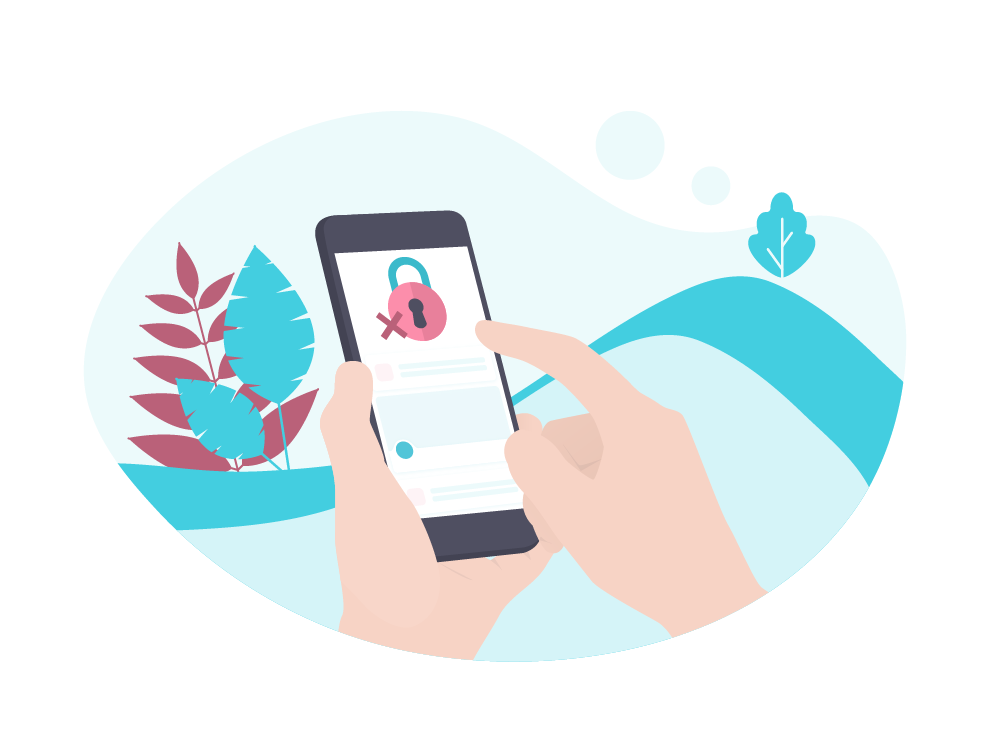
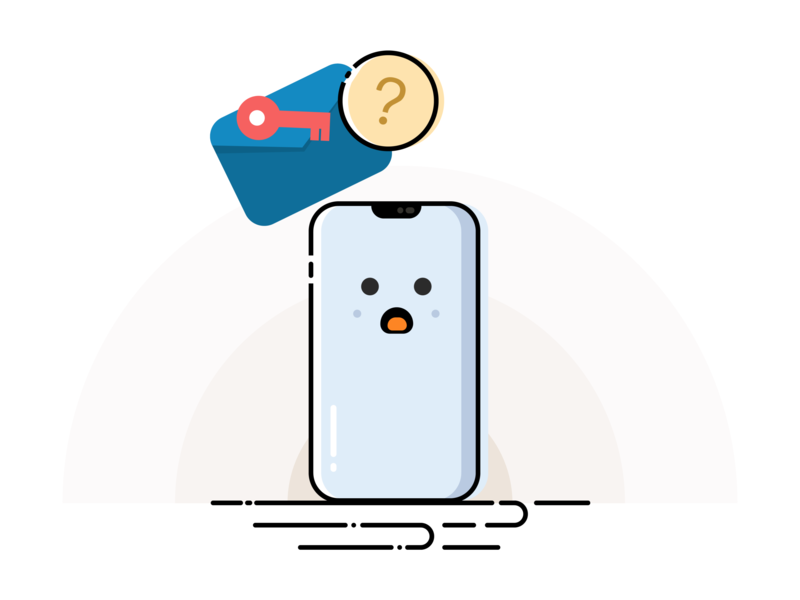
pin page2

diff --git a/lib/src/pages/pin_page.dart b/lib/src/pages/pin_page.dart
@@ -1,26 +1,25 @@
+import 'dart:async';
 import 'package:flutter/material.dart';
 import 'package:flutter/animation.dart';
-import 'package:flutter/services.dart';
-
-import 'package:font_awesome_flutter/font_awesome_flutter.dart';
 import 'package:sockets2/src/share_prefs/preferences.dart';
-import 'package:sockets2/src/validators/validators.dart' as loginValidator;
+
+import 'package:pinput/pin_put/pin_put.dart';
 
 
-class PasswordPage extends StatefulWidget {
-  _PasswordPageState createState() => _PasswordPageState();
+class PinPage extends StatefulWidget {
+  _PinPageState createState() => _PinPageState();
 }
 
-class _PasswordPageState extends State<PasswordPage> with TickerProviderStateMixin {
+class _PinPageState extends State<PinPage> with TickerProviderStateMixin {
 
   AnimationController controller;
   Animation<double> animation;
 
-  final TextEditingController _emailController    = TextEditingController();
-
   final formKey = GlobalKey<FormState>();
-
   final prefs = SharedPrefs();
+
+  int seconds = 300;
+  String time = '5:00';
 
   initState() {
     super.initState();
@@ -35,10 +34,32 @@ class _PasswordPageState extends State<PasswordPage> with TickerProviderStateMix
     );
     controller.forward();
 
+    Timer.periodic(Duration(seconds: 1), (timer) {
+      setState(() {
+        int minutos = (seconds/60).floor();
+        int segundos = seconds%60;
+        time = '$minutos:';
+        if ( segundos < 10 ) {
+          time += '0$segundos';
+        } else {
+          time += '$segundos';
+        }
+
+        if ( seconds == 0 ) {
+          timer.cancel();
+        }
+        seconds = seconds - 1;
+
+
+      });
+    });
+
   }
 
   @override
   Widget build(BuildContext context) {
+    
+    
 
     return Scaffold(
       backgroundColor: Colors.white,
@@ -66,7 +87,7 @@ class _PasswordPageState extends State<PasswordPage> with TickerProviderStateMix
             height: 250,
             child: FadeTransition(
               opacity: animation,
-              child: Image.asset('assets/forgpwd.png')
+              child: Image.asset('assets/pin.png')
             )
           ),
           Padding(
@@ -74,12 +95,12 @@ class _PasswordPageState extends State<PasswordPage> with TickerProviderStateMix
             child: Column(
               children: <Widget>[
                 Text(
-                  '¿Olvidaste tu contraseña?',
+                  'Introduce el pin',
                   style: TextStyle(fontSize: 25.0),
                 ),
                 SizedBox(height: 20.0),
                 Text(
-                    'Introduce tu correo asociado con tu cuenta y te enviaremos un código de 5 dígitos que deberás introducir después.',
+                    'Tiempo restante para que el pin expire: $time',
                     style: TextStyle(fontSize: 15.0, color: Colors.black54),
                     textAlign: TextAlign.center,
                 ),
@@ -98,17 +119,14 @@ class _PasswordPageState extends State<PasswordPage> with TickerProviderStateMix
         key: formKey,
         child: Column(
           children: <Widget>[
-            TextFormField(
-              controller: _emailController,
-              keyboardType: TextInputType.emailAddress,
-              decoration: InputDecoration(
-                labelText: 'Correo',
-                suffixIcon: Icon(FontAwesomeIcons.at)
-              ),
-              validator: loginValidator.validateEmail,
-              autovalidate: true,
+            PinPut(
+              fieldsCount: 4,
+              onSubmit: (pin) {
+                print(pin);
+              },
+              actionButtonsEnabled: false
             ),
-            SizedBox(height: 25.0)
+            SizedBox(height: 25.0),
           ],
         ),
       ),
@@ -130,7 +148,8 @@ class _PasswordPageState extends State<PasswordPage> with TickerProviderStateMix
                 textAlign: TextAlign.center,
               ),
             ),
-            onPressed: () => Navigator.pushNamed(context, 'pin')
+            onPressed: () {
+            }
           )
         ],
       ),

diff --git a/lib/src/routes/routes.dart b/lib/src/routes/routes.dart
@@ -1,16 +1,18 @@
 import 'package:flutter/material.dart';
 import 'package:sockets2/src/pages/home_page.dart';
 import 'package:sockets2/src/pages/password_page.dart';
+import 'package:sockets2/src/pages/pin_page.dart';
 import 'package:sockets2/src/pages/register_page.dart';
 import 'package:sockets2/src/pages/start_page.dart';
 import 'package:sockets2/src/pages/login_page.dart';
 
 Map<String, WidgetBuilder> getApplicationRoutes(){
   return <String, WidgetBuilder>{
-    '/'       : ( BuildContext context) => StartPage(),
-    'login'       : ( BuildContext context) => LoginPage(),
-    'register'       : ( BuildContext context) => SingUpPage(),
-    'home'       : ( BuildContext context) => HomePage(),
-    'pwd'       : ( BuildContext context) => PasswordPage()
+    '/'        : ( BuildContext context) => StartPage(),
+    'login'    : ( BuildContext context) => LoginPage(),
+    'register' : ( BuildContext context) => SingUpPage(),
+    'home'     : ( BuildContext context) => HomePage(),
+    'pwd'      : ( BuildContext context) => PasswordPage(),
+    'pin'      : ( BuildContext context) => PinPage()
   };
 }

diff --git a/lib/main.dart b/lib/main.dart
@@ -16,7 +16,12 @@ void main() async {
   print(prefs.startRoute);
   print(prefs.endToken);
 
-  runApp(MyApp());
+  runApp(MultiProvider(
+    providers: [
+      ChangeNotifierProvider( create: ( context ) => UsuarioProvider() )
+    ],
+    child: MyApp(),
+  ));
 }
  
 class MyApp extends StatelessWidget {
@@ -25,16 +30,11 @@ class MyApp extends StatelessWidget {
 
   @override
   Widget build(BuildContext context) {
-    return MultiProvider(
-      providers: [
-        ChangeNotifierProvider( create: ( context ) => UsuarioProvider() )
-      ],
-      child: MaterialApp(
-        title: 'SSPA',
-        debugShowCheckedModeBanner: false,
-        initialRoute: prefs.startRoute,
-        routes: getApplicationRoutes()
-      ),
+    return MaterialApp(
+      title: 'SSPA',
+      debugShowCheckedModeBanner: false,
+      initialRoute: prefs.startRoute,
+      routes: getApplicationRoutes()
     );
   }
 }

diff --git a/lib/src/providers/usuario_provider.dart b/lib/src/providers/usuario_provider.dart
@@ -7,7 +7,7 @@ import 'package:sockets2/src/share_prefs/preferences.dart';
 
 class UsuarioProvider with ChangeNotifier{
 
-  final String _url = 'https://api-puerta.herokuapp.com';
+  final String _url = 'http://192.168.0.110:3000';
   User _user;
 
   final prefs = SharedPrefs();
@@ -45,19 +45,19 @@ class UsuarioProvider with ChangeNotifier{
     final resp = await http.post('$_url/usuario', body: authData);
 
     return transformUser(resp);
-    
   }
 
   Map<String, dynamic> transformUser( http.Response resp ) {
     User user = new User();
+
+    print(resp.body);
 
     final Map<String, dynamic> decodedResp = json.decode(resp.body);
 
     if ( decodedResp['ok'] ) {
       user = User.fromJson(decodedResp['usuario']);
       this.user = user;
-
-      prefs.token = decodedResp['token'];
+        prefs.token = decodedResp['token'];
       prefs.user = userToJson(user);
 
     }

diff --git a/lib/src/pages/home_page.dart b/lib/src/pages/home_page.dart
@@ -21,13 +21,13 @@ class HomePage extends StatelessWidget {
     final userProvider = Provider.of<UsuarioProvider>(context);
     User user = User.fromJson(json.decode(prefs.user));
 
-    WidgetsBinding.instance.addPostFrameCallback((_) async {
+    final JwtClaim decClaimSet = verifyJwtHS256Signature(prefs.token, 'seed');
+    
+    userProvider.user = user;
+    
+    WidgetsBinding.instance.addPostFrameCallback((_) async {  
 
       // add your code here.
-      userProvider.user = user;
-
-      final JwtClaim decClaimSet = verifyJwtHS256Signature(prefs.token, 'seed');
-
       print(decClaimSet.expiry);
       print(DateTime.now());
     

diff --git a/lib/src/pages/register_page.dart b/lib/src/pages/register_page.dart
@@ -109,7 +109,9 @@ class _SingUpPageState extends State<SingUpPage> with TickerProviderStateMixin {
               labelText: 'Apodo',
               suffixIcon: Icon(FontAwesomeIcons.userAlt)
             ),
-            validator: registerValidator.validateName
+            validator: registerValidator.validateUserName,
+            autovalidate: true,
+            
           ),
           TextFormField(
             controller: _emailController,

diff --git a/lib/src/validators/validators.dart b/lib/src/validators/validators.dart
@@ -8,6 +8,10 @@ String validateEmail( String email ) {
   return regExp.hasMatch(email) || email.length == 0 ? null : 'Ingresa un correo válido';
 }
 
+String validateUserName( String username ) {
+  return username.length > 0 && username.length < 5 ? 'Mínimo 5 caracteres' : null;
+}
+
 String validatePassword( String password ) {
 
   return password.length > 0 && password.length < 6 ? 'Mínimo 6 caracteres' : null;
